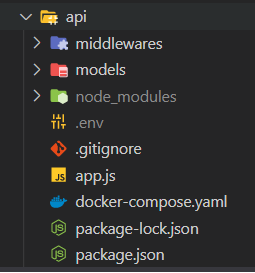
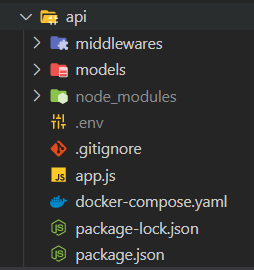
imagesUp

diff --git a/README.md b/README.md
@@ -1,9 +1,11 @@
-<h1>Simples projeto em NodeJs, React e React Native</h1>
-<p>Aplicação simples em NodeJs com React e React Native!</p>
+<h1>Projeto em NodeJs, React e React Native</h1>
+<p>Aplicação simples utilizada para fins de estudos.</p>
 <h2>API NodeJs</h2>
 <p>
 	Clone o projeto e instale todas as dependências indicadas pelo "./package.json"
 </p>
+
+![Estrutura da API](https://github.com/givisiez/imersao8/blob/main/images/estrutura-api.png?raw=true)
 
 `npm i`
 <h4>Criar o arquivo package</h4>
@@ -123,7 +125,7 @@ https://www.npmjs.com/package/cors
 
 <h2>Deploy</h2>
 <p>
-	Iremos utilizar duas plataformas "grátis" para hospedar nossas aplicações.
+	Iremos utilizar duas plataformas grátis para hospedar nossas aplicações.
 	O obejtivo de separa é só para demonstrar a prática em separar os serviços.
 	Mas poderia deixar tudo na plataforma do Heroku, por exemplo.
 </p>
@@ -135,6 +137,5 @@ https://vercel.com/
 <h2>Heroku</h2>
 <p>
 	Para hospedar a API NodeJs com banco Mysql. <br  />
-	https://id.heroku.com <br/ >
-    Para usar ferramentas como banco de dados, ele solicita o cadastro de um cartão de crédito.
+	https://id.heroku.com
 </p>
